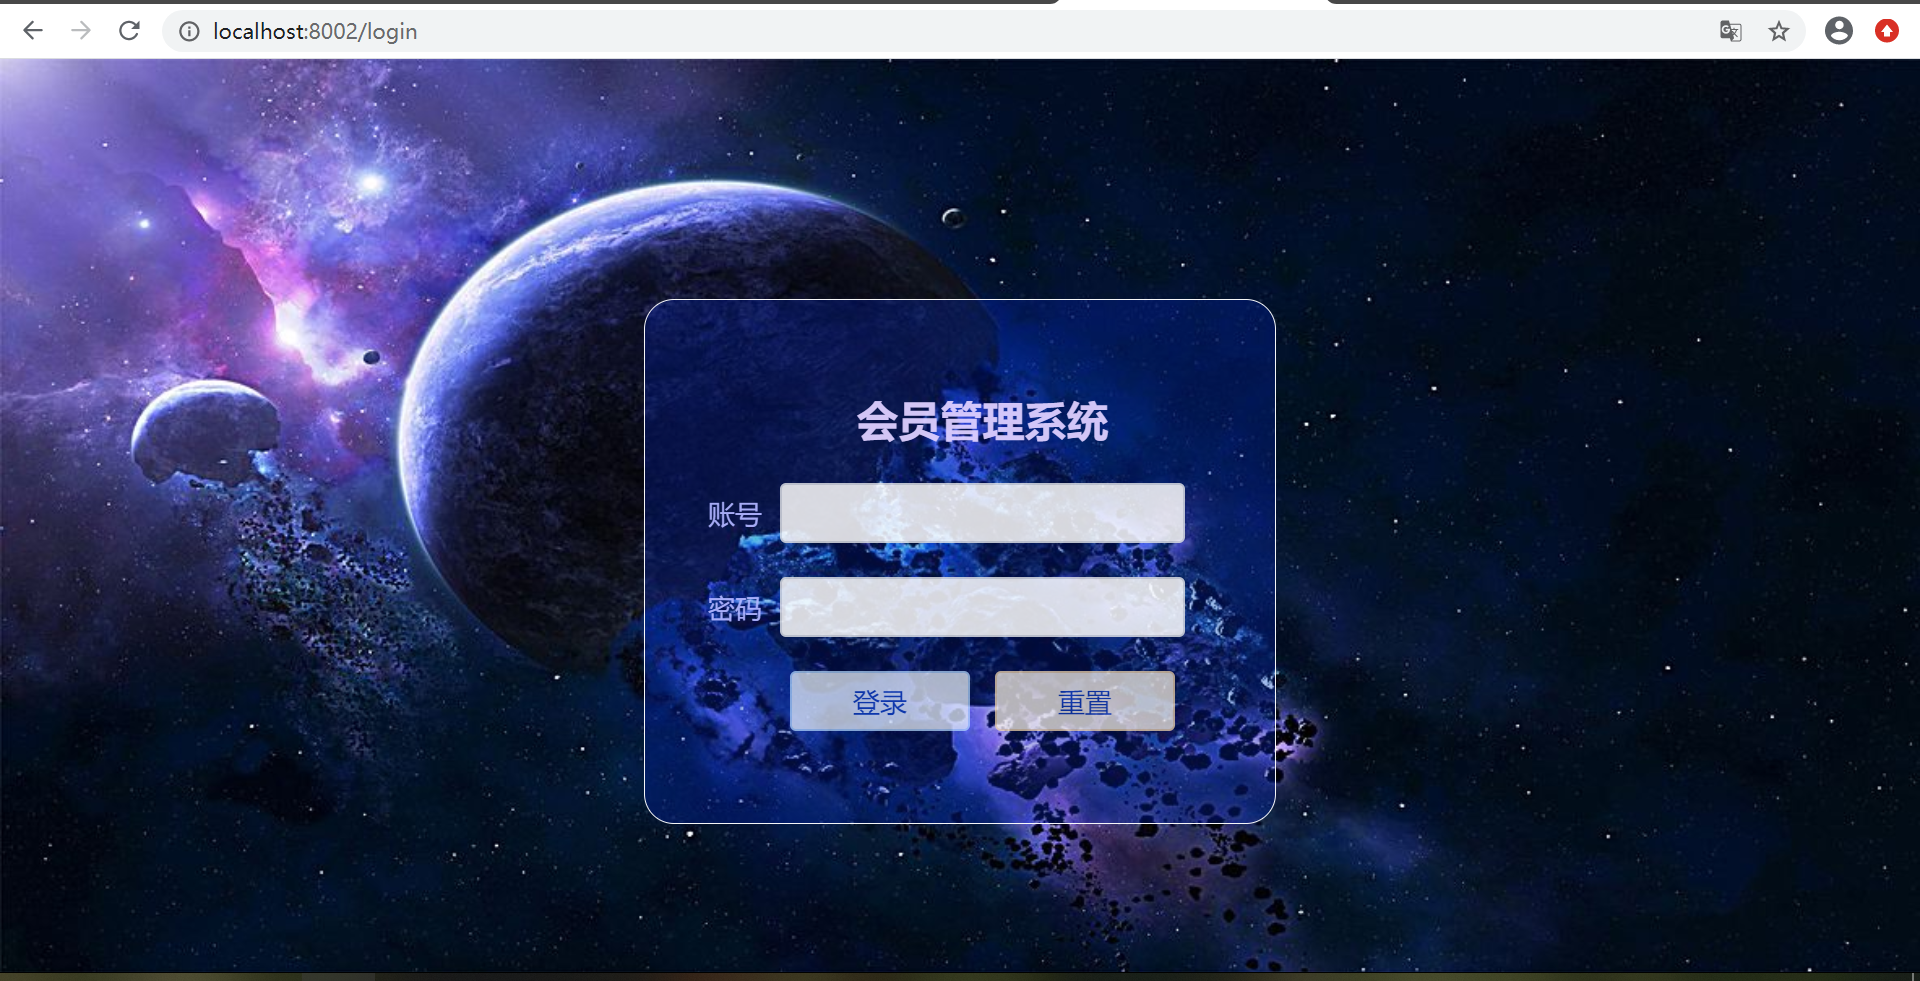
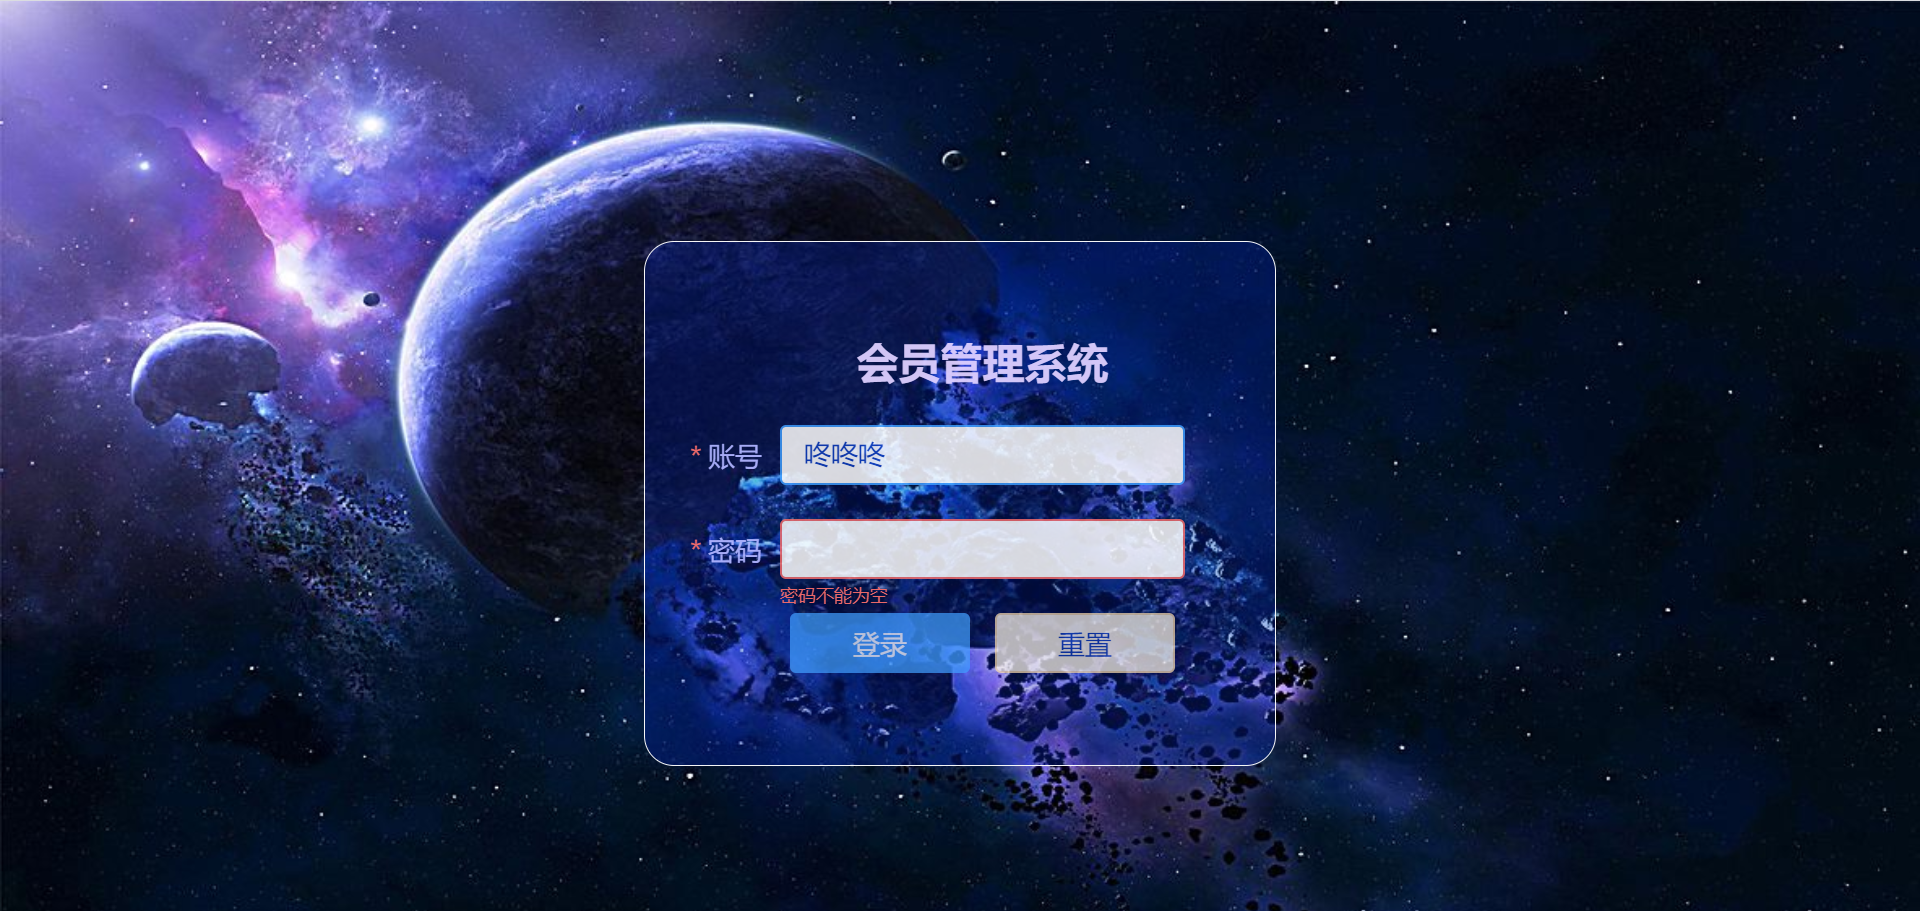
增加简单的登录校验

diff --git a/src/views/login/index.vue b/src/views/login/index.vue
@@ -1,6 +1,6 @@
 <template>
     <div class="login-container">
-        <el-form ref="form" :model="form" label-width="80px" class="login-form">
+        <el-form ref="form" :rules="rules" :model="form" label-width="80px" class="login-form">
             <el-form-item>
                 <h1 class="login-title">会员管理系统</h1>
             </el-form-item>
@@ -22,7 +22,14 @@
 export default {
     data() {
       return {
-        form: {
+        form: {},
+        rules: {
+            username: [
+                { required: true, message: '账号不能为空', trigger: 'blur' }
+            ],
+            password: [
+                { required: true, message: '密码不能为空', trigger: 'blur' }
+            ]
         }
       }
     },
@@ -64,6 +71,7 @@ export default {
         color: #0f3ebe;
         font-size: 18px;
         opacity: 0.88;
+        border-color: #409EFF;
     }
     .login-form .el-form-item__content {
         display: flex;
